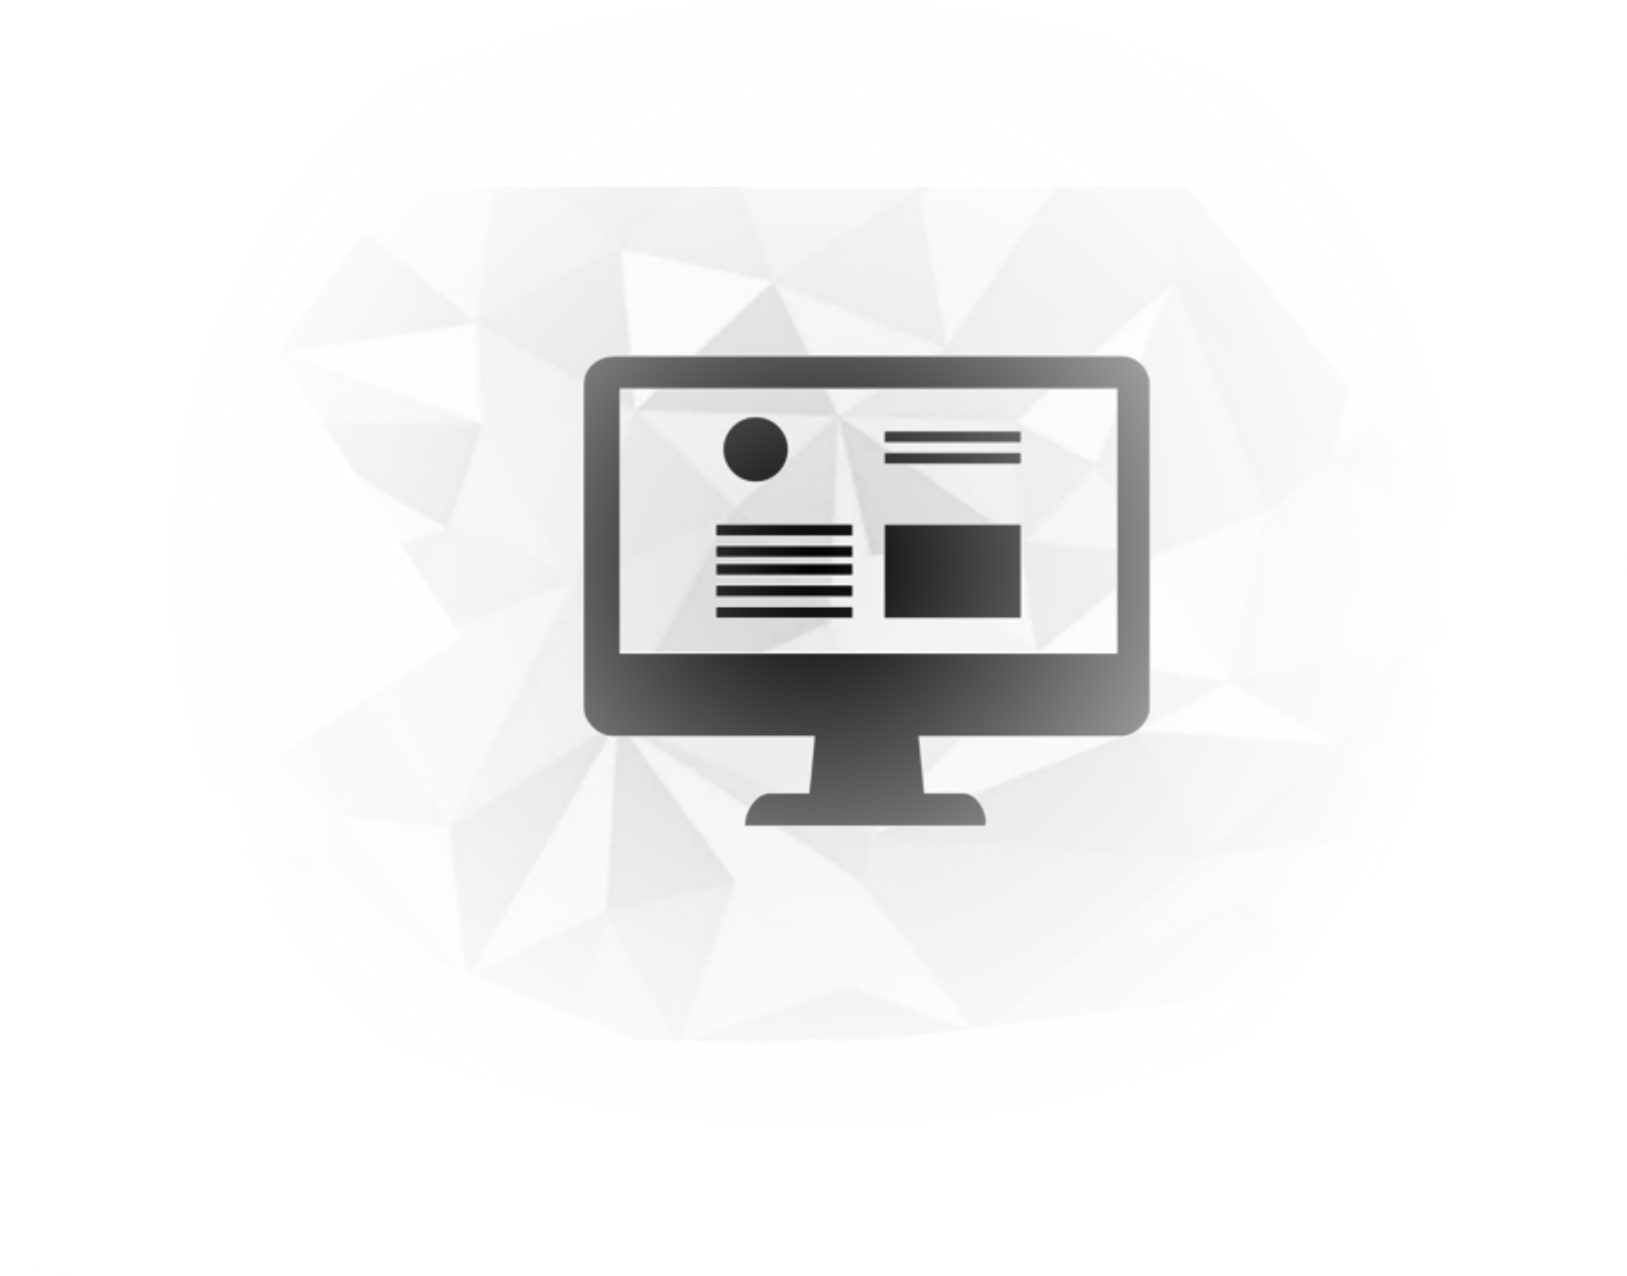
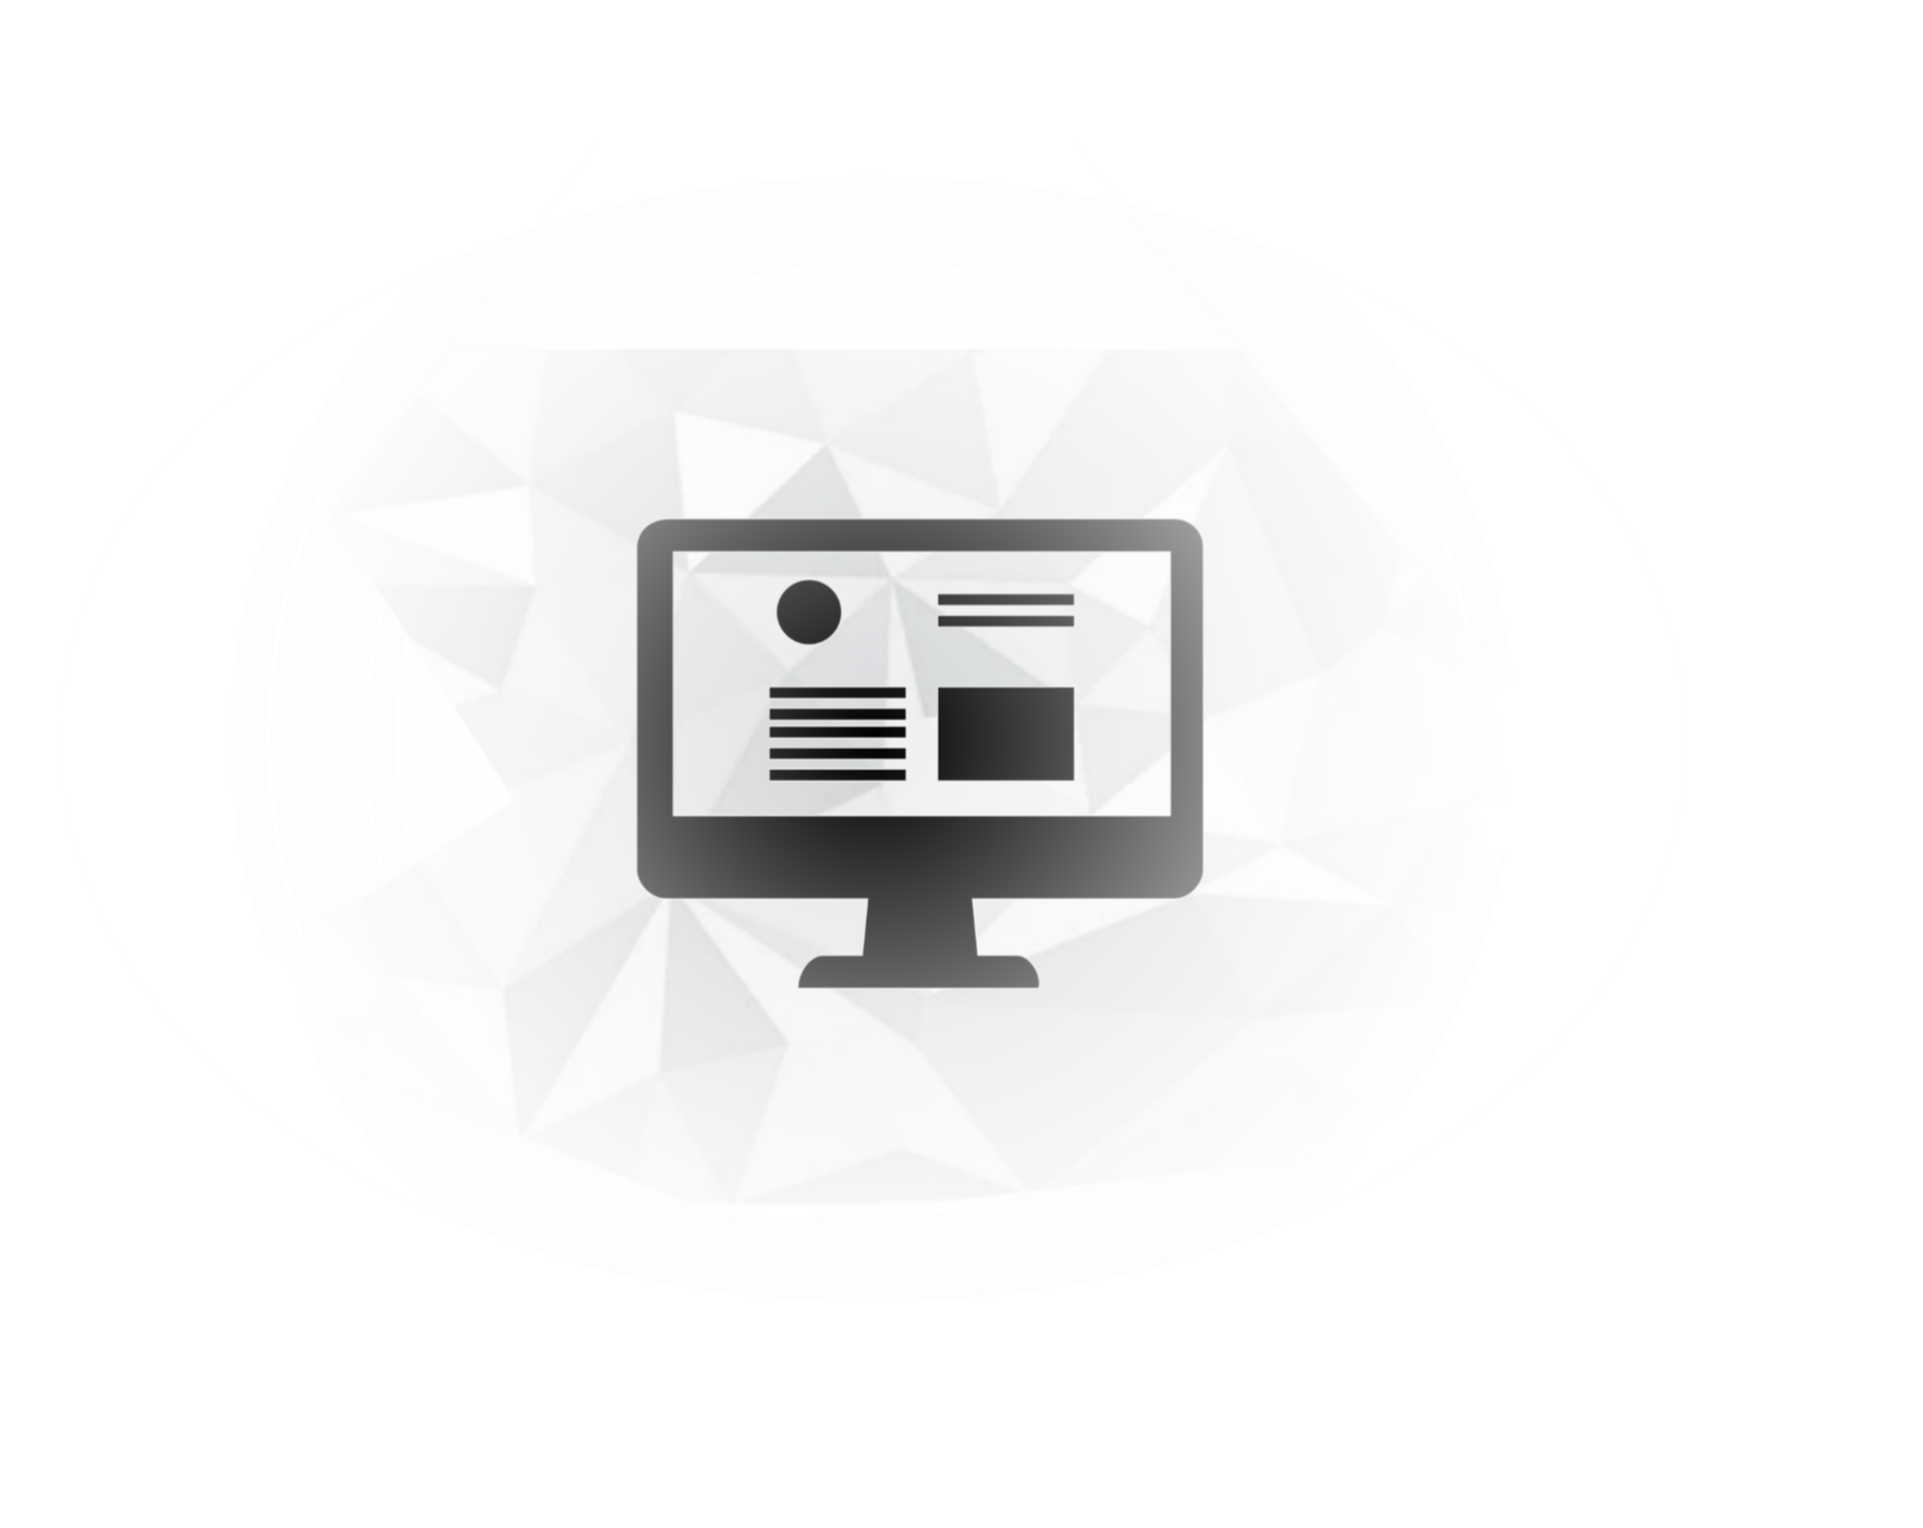
more beautify

Changed region(s): [[0.3073, 0.2751, 0.7068, 0.6724]]

diff --git a/client/nyst/src/components/modules/home_page/Section2.js b/client/nyst/src/components/modules/home_page/Section2.js
@@ -3,6 +3,7 @@ import "../../../utilities.css";
 // import { Router } from "@react/router";
 import React from "react";
 import ScrollAnimation from "react-animate-on-scroll";
+import ComponentsProgram from "../ComponentsProgram";
 import "animate.css/animate.min.css";
 import {
   AppBar,
@@ -39,7 +40,7 @@ function Section2() {
   return (
     <div className="section-2" id="information">
       <div className="sp-title">
-        <div className="sp-divider" />
+        <div className="sp-content" />
             <ScrollAnimation
                 animateIn="animate__backInRight"
                 animateOut="animate__backOutRight"
@@ -52,13 +53,14 @@ function Section2() {
                     direction="column"
                     alignItems="center"
                     justify="center"
-                    style={{ minHeight: "20vh", minWidth: "100vw" }}
-                >
-                    <Card variant="outlined">
-                    <Typography variant="h5" component="div">
-                        Type your youtube link!
-                    </Typography>
-                    </Card>
+                    style={{ minHeight: "0vh", minWidth: "100vw" }}
+                >   <div className="sp-title">
+                        <div className="sp-divider" />
+                        <div className="sp-title-content">
+                            Begin using SensAI by pasting a YouTube link here!
+                        </div>
+                    </div>
+                    
                     <Box component="form" onSubmit={handleSubmit} noValidate sx={{ mt: 1 }}>
                     <TextField
                         margin="normal"
@@ -80,7 +82,27 @@ function Section2() {
                 </Grid>
             </ScrollAnimation>
         </div>
+        <div className="audit-title" />\
+      <div className="sp-title">
+        <div className="sp-divider" />
+            <ScrollAnimation
+                    animateIn="animate__backInLeft"
+                    animateOut="animate__backOutLeft"
+                    animateOnce={true}
+                    duration={1}
+                >
+                <div className="sp-title-content">
+                    SensAI's Components:
+                </div>
+            </ScrollAnimation>
       </div>
+    <div className="sp-content">
+        <ComponentsProgram />
+        <div className="sp-content-image">
+          <img src="assets/pdf_diagram.png" alt="security program" />
+        </div>
+      </div>
+    </div>
   );
 }
 

diff --git a/client/nyst/src/components/App.css b/client/nyst/src/components/App.css
@@ -4,9 +4,9 @@
 @import url("https://fonts.googleapis.com/css2?family=Work+Sans:wght@400;500&display=swap");
 :root {
   --sub_title_color: rgb(242, 242, 242);
-  --yellow_title: #00cba4;
-  --sp_service_title: #007eae;
-  --sp_service_content: #32568b;
+  --yellow_title: #802424;
+  --sp_service_title: #353535;
+  --sp_service_content: #626262;
   --audit_button_border: #de78b3;
   --linear-header: linear-gradient(to right, #813030, rgba(122, 122, 122, 0.473));
   --linear_title: linear-gradient(to right, #9c6cb0, #32568b);
@@ -367,12 +367,12 @@
   margin-left: auto;
   margin-right: auto;
   width: 80%;
-  padding-top: 2.5em;
+  padding-top: 1.5em;
   color: var(--yellow_title);
   font-size: 1.8rem;
   display: flex;
-  align-items: center;
-  justify-content: center;
+  align-items: left;
+  justify-content: celeftnter;
 }
 
 .sp-title-content {
@@ -400,7 +400,8 @@
 }
 
 .sp-content-image img {
-  width: 450px;
+  width: 600px;
+  z-index: 0;
 }
 
 .sp-service {

diff --git a/client/nyst/src/components/modules/ComponentsProgram.js b/client/nyst/src/components/modules/ComponentsProgram.js
@@ -1,0 +1,43 @@
+import React from "react";
+import ComponentsItem from "./ComponentsItem";
+
+export default function SecurityProgram() {
+  let services = [
+    {
+      mar: 12,
+      title: "1. AI-based Note Taking",
+      content:
+        "some description",
+    },
+    {
+      mar: 10,
+      title: "2. Video Querier Powered By Semantic Search",
+      content:
+        "description",
+    },
+    {
+      mar: 8,
+      title: "3. Automatic Review Question Generation",
+      content:
+        "blub",
+    },
+    {
+      mar: 8,
+      title: "4. Valuenex BS",
+      content:
+        "blublublublub",
+    },
+  ];
+
+  return (
+    <div>
+      {services.map((service) => (
+        <ComponentsItem
+          title={service.title}
+          content={service.content}
+          mar={service.mar}
+        />
+      ))}
+    </div>
+  );
+}

diff --git a/client/nyst/src/components/modules/ComponentsItem.js b/client/nyst/src/components/modules/ComponentsItem.js
@@ -1,0 +1,19 @@
+import React from "react";
+import ScrollAnimation from "react-animate-on-scroll";
+import "animate.css/animate.min.css";
+
+export default function ComponentsItem({ title, content, mar }) {
+  return (
+    <ScrollAnimation
+      animateIn="fadeIn"
+      animateOut="fadeOut"
+      duration={0.5}
+      animateOnce
+    >
+      <div style={{ marginLeft: `${mar}em` }} className="sp-service">
+        <div className="sp-service-title">{title}</div>
+        <div className="sp-service-content">{content}</div>
+      </div>
+    </ScrollAnimation>
+  );
+}

diff --git a/asdf.py b/asdf.py
@@ -1,11 +1,24 @@
 file = "D:/Documents/projects/sensAI/Sensai/client/nyst/public/assets/webpage_clipart.png"
 
 from PIL import Image, ImageOps
+from matplotlib import pyplot as plt
+import numpy as np
 
 img = Image.open(file)
 
 img = img.convert('RGBA')  # RGBA = RGB + alpha
-mask = ImageOps.invert(img.convert('L'))  # 8-bit grey
-img.putalpha(mask)
+red, green, blue, alpha = img.split()
+mask = np.array(img)[:,:,:3]
+mask = np.sum(mask,axis=-1)/3
+alpha = np.array(alpha)
+mask[alpha < 0.1] = 255
+
+mask = 255-mask
+mask += 25
+mask[mask > 255] = 255
+
+plt.imshow(mask)
+plt.show()
+img.putalpha(Image.fromarray(mask.astype("uint8")))
 
 img.save('ConvertedImage.png', 'PNG')
